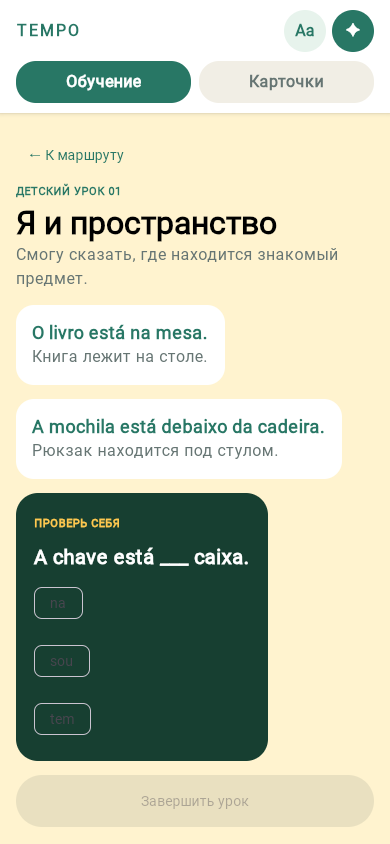
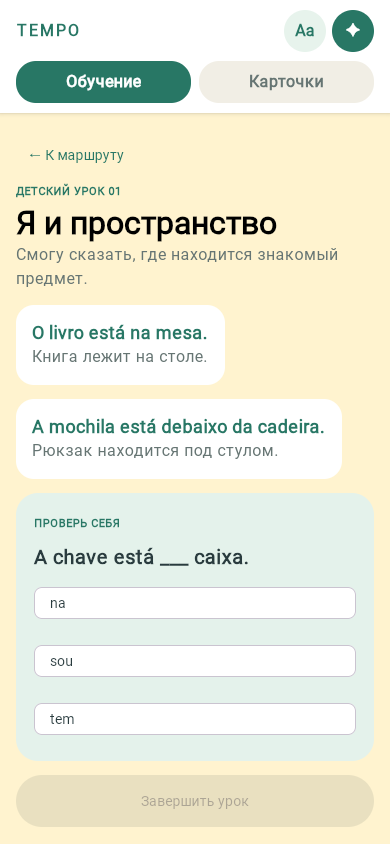
Improve lesson answer contrast

Changed region(s): [[0.0308, 0.5853, 0.9846, 0.9242]]

diff --git a/shared/src/commonMain/kotlin/io/github/portfolio/tempo/ui/TempoApp.kt b/shared/src/commonMain/kotlin/io/github/portfolio/tempo/ui/TempoApp.kt
@@ -24,6 +24,7 @@ import androidx.compose.material3.Button
 import androidx.compose.material3.Card
 import androidx.compose.material3.CardDefaults
 import androidx.compose.material3.FilterChip
+import androidx.compose.material3.FilterChipDefaults
 import androidx.compose.material3.LinearProgressIndicator
 import androidx.compose.material3.MaterialTheme
 import androidx.compose.material3.OutlinedButton
@@ -259,21 +260,28 @@ private fun LessonScreen(
             }
         }
         item {
-            Card(colors = CardDefaults.cardColors(containerColor = Color(0xFF173F31)), shape = RoundedCornerShape(22.dp)) {
+            Card(colors = CardDefaults.cardColors(containerColor = Color(0xFFE4F2EB)), shape = RoundedCornerShape(22.dp)) {
                 Column(Modifier.padding(18.dp), verticalArrangement = Arrangement.spacedBy(10.dp)) {
-                    Text("ПРОВЕРЬ СЕБЯ", color = Sun, fontSize = 11.sp, fontWeight = FontWeight.Black)
-                    Text(lesson.question, color = Color.White, fontSize = 20.sp, fontWeight = FontWeight.Bold)
+                    Text("ПРОВЕРЬ СЕБЯ", color = Green, fontSize = 11.sp, fontWeight = FontWeight.Black)
+                    Text(lesson.question, color = Ink, fontSize = 20.sp, fontWeight = FontWeight.Bold)
                     lesson.options.forEachIndexed { index, option ->
                         FilterChip(
+                            modifier = Modifier.fillMaxWidth(),
                             selected = selectedOption == index,
                             onClick = { selectedOption = index },
                             label = { Text(option) },
+                            colors = FilterChipDefaults.filterChipColors(
+                                containerColor = Color.White,
+                                labelColor = Ink,
+                                selectedContainerColor = Green,
+                                selectedLabelColor = Color.White,
+                            ),
                         )
                     }
                     if (selectedOption >= 0) {
                         Text(
                             if (selectedOption == lesson.correctOption) "Верно — можно завершить урок." else "Попробуй ещё раз.",
-                            color = if (selectedOption == lesson.correctOption) Color(0xFFA9E4B8) else Color(0xFFFFC2B6),
+                            color = if (selectedOption == lesson.correctOption) Green else Color(0xFF9B332C),
                             fontWeight = FontWeight.Bold,
                         )
                     }
